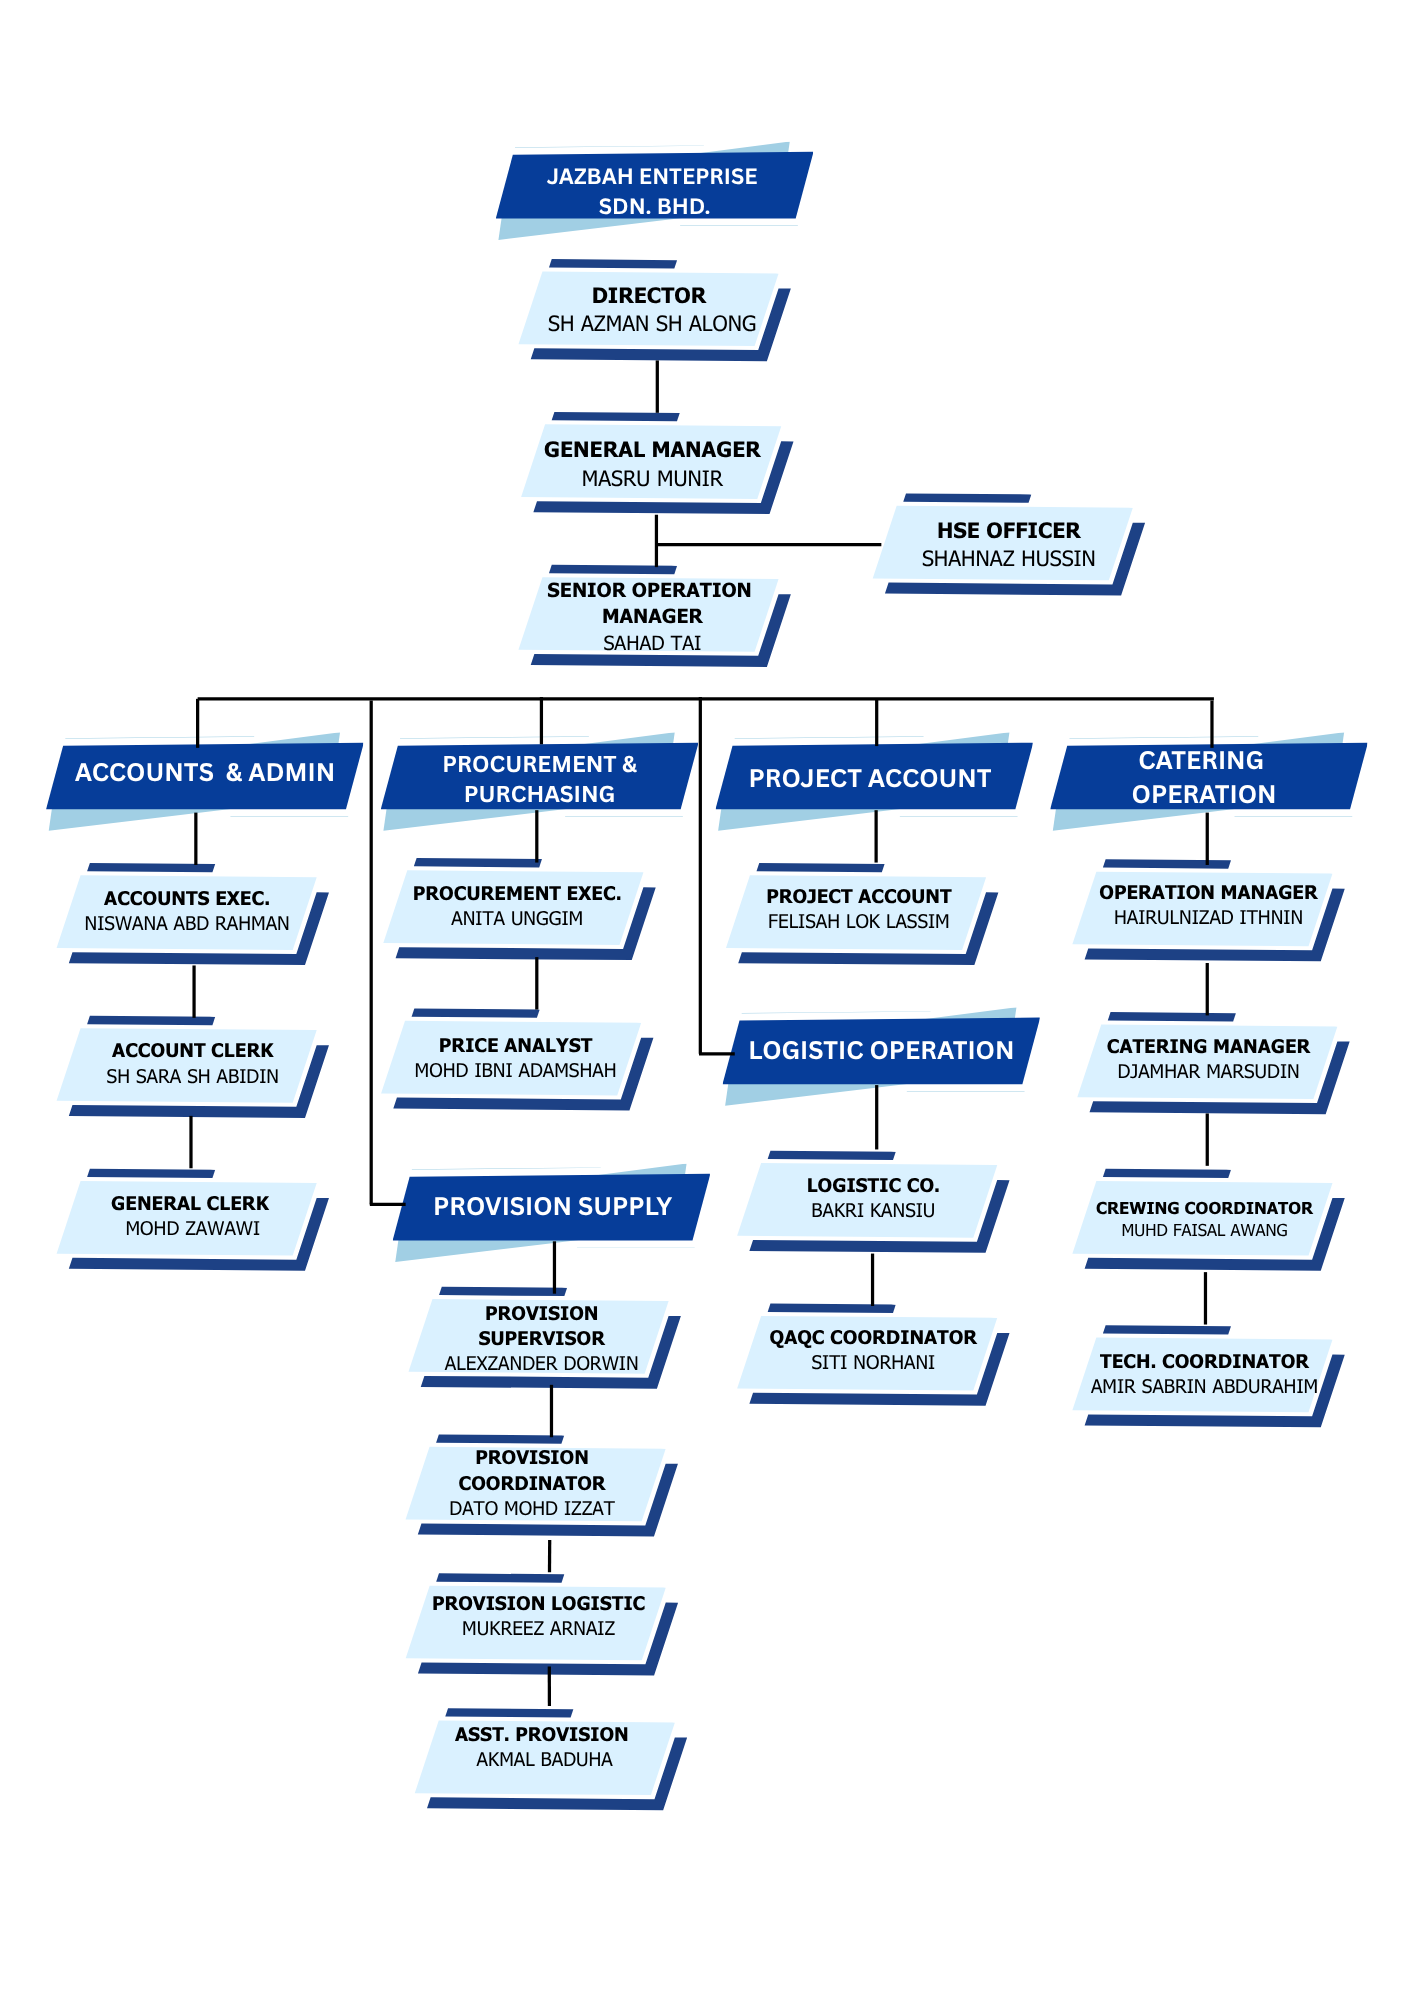
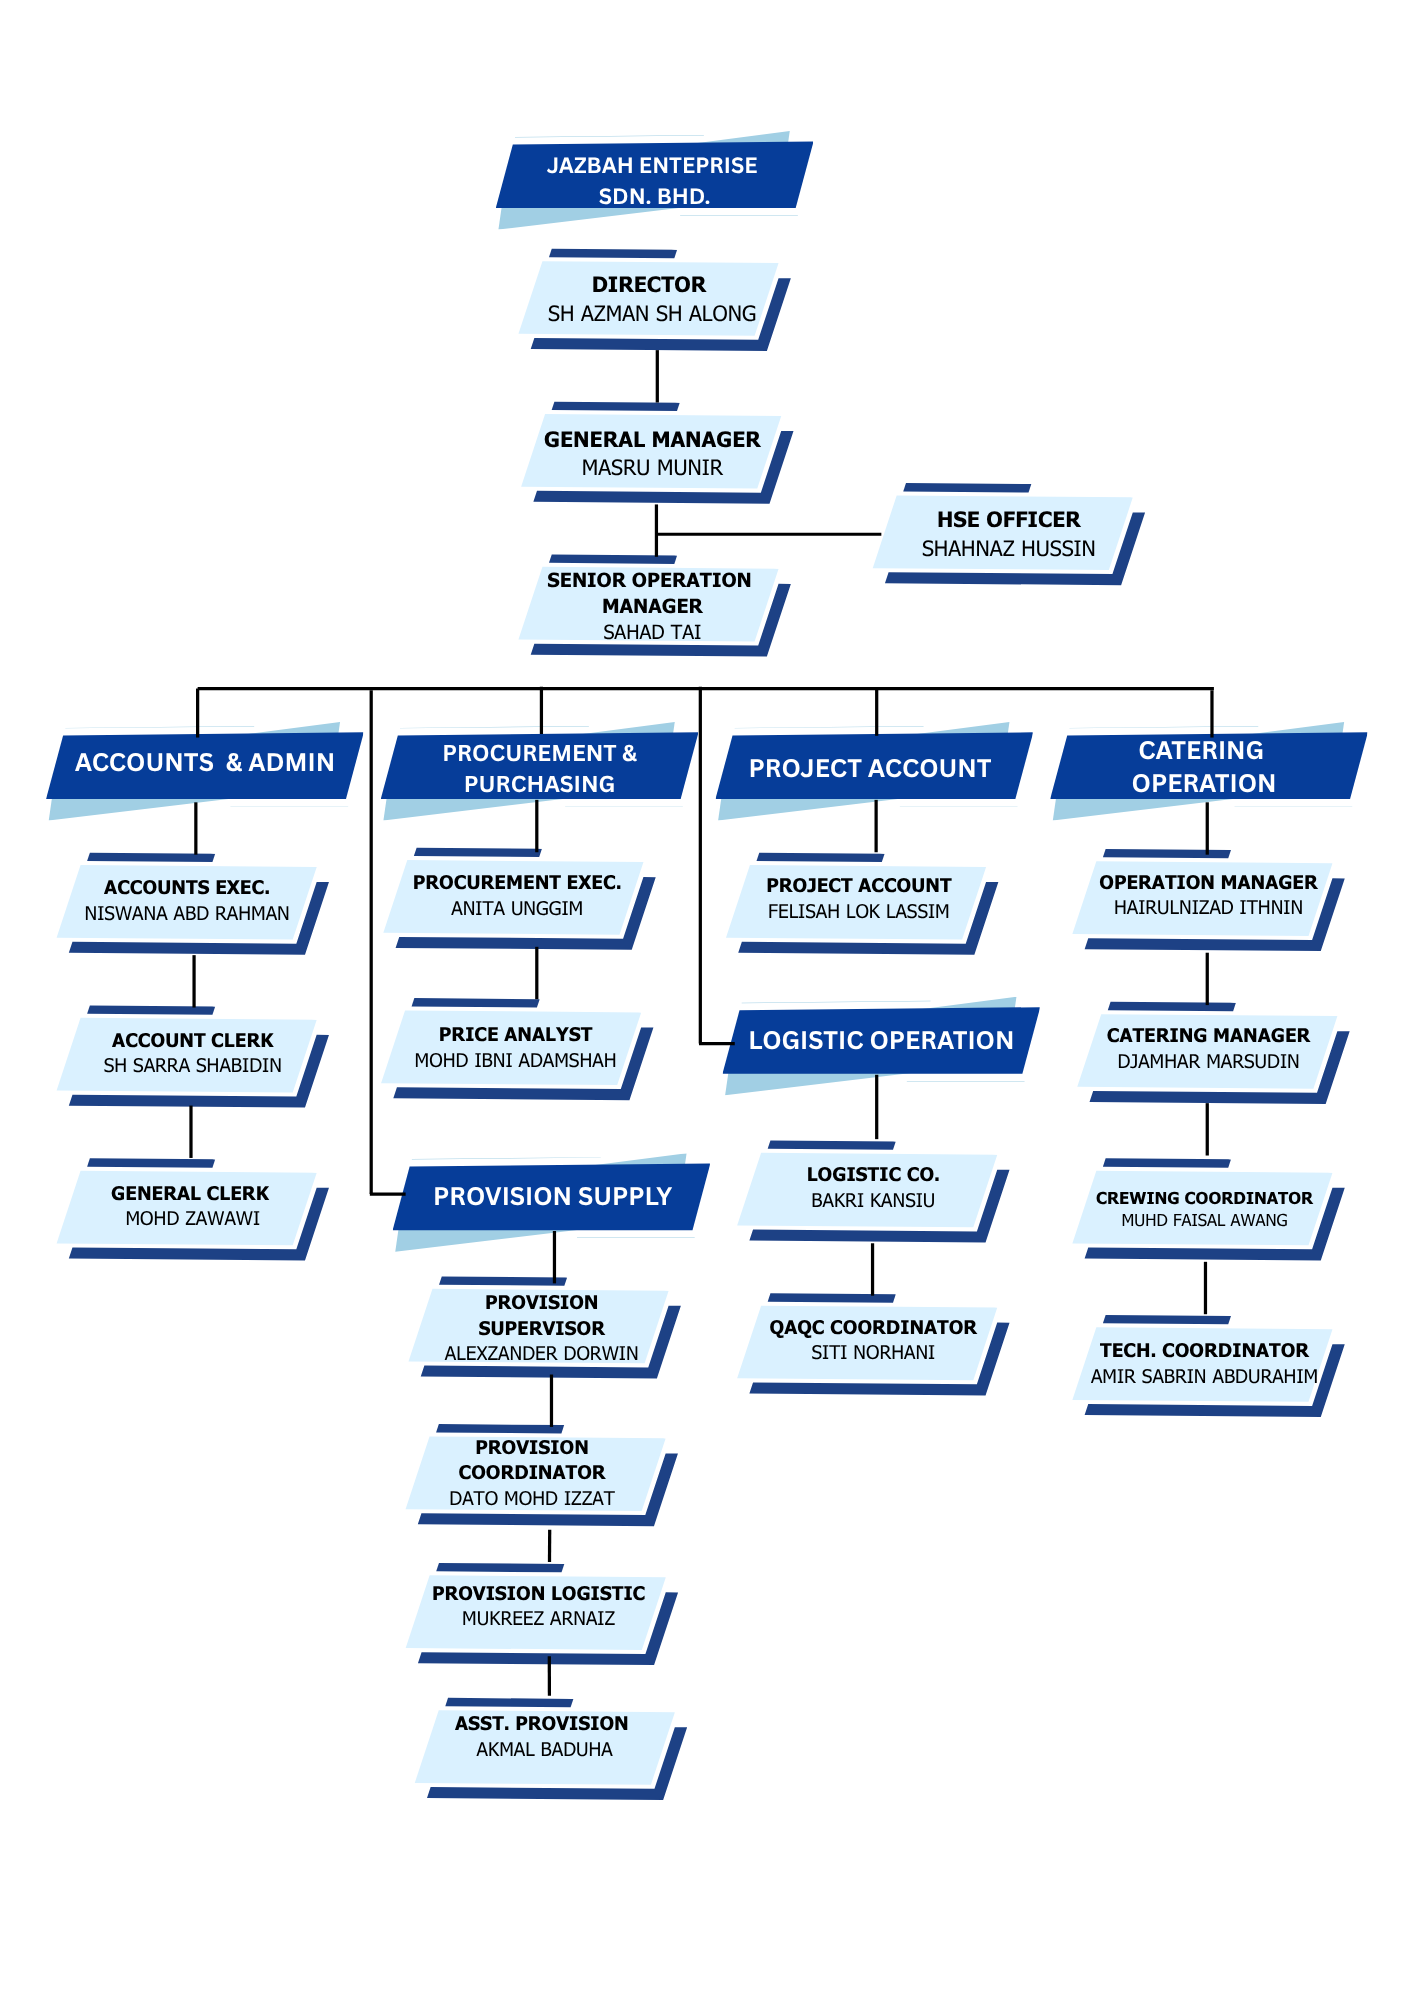
adjust facilities

Changed region(s): [[0.0311, 0.062, 0.9646, 0.93]]

diff --git a/facilities.html b/facilities.html
@@ -80,7 +80,7 @@
                 <div class="yardstorage-grid">
                     <div class="grid-item"><img src="images/ys-1.jpg" alt="yardstorage1"></div>
                     <div class="grid-item"><img src="images/ys-2.jpg" alt="yardstorage2"></div>
-                    <div class="grid-item"><img src="images/ys-3.jpg" alt="yardstorage3"></div>
+                    <div class="grid-item"><img src="images/warehouse-4.jpeg" alt="yardstorage3"></div>
                     <div class="grid-item"><img src="images/ys-4.jpg" alt="yardstorage4"></div>
                     
                 </div>
@@ -169,23 +169,6 @@
         </div>
     </section>
 
-    <!-- 6. CPU STORAGE SECTION -->
-    <section class="cpu-section">
-        <div class="section-container">
-            <div class="cpu-header">
-                <h3 class="cpu-title">CPU STORAGE</h3>
-                <p class="cpu-address">No 22, Jalan P/5, Seksyen 13, 43650 Bandar Baru Bangi, Selangor</p>
-            </div>
-
-            <div class="cpu-gallery-card">
-                <div class="cpu-grid">
-                    <div class="grid-item"><img src="images/cpu-1.jpg" alt="cpu1"></div>
-                    <div class="grid-item"><img src="images/cpu-2.jpg" alt="cpu2"></div>
-                    <div class="grid-item"><img src="images/cpu-3.jpg" alt="cpu3"></div>
-                    <div class="grid-item"><img src="images/cpu-4.jpg" alt="cpu4"></div>
-                    
-        </div>
-    </section>
     
     <!-- MAIN FOOTER -->
     <footer class="main-footer">
